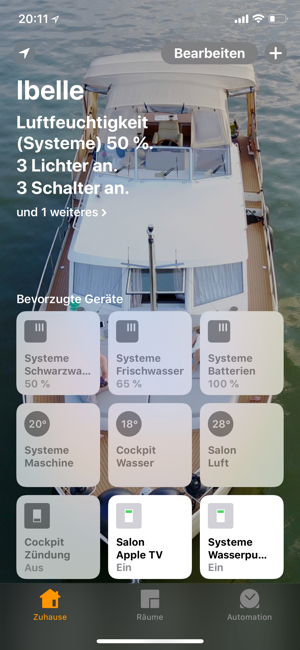
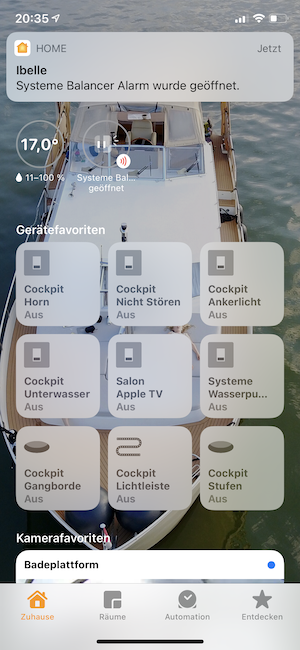
fix: display state of switches and dimmers correctly after switching on

diff --git a/index.js b/index.js
@@ -26,7 +26,7 @@ const empirBusIdentifier = 'empirBusNxt'
 const venusRelaisIdentifier = 'venus'
 const controlsPutPath = 'electrical/switches/'
 
-const switchOnValues = [ 'true', 'on', 'low power', 'passthrough', '1' ] // All Signal K values which represent a switch is "on"
+const switchOnValues = [ true, 'true', 'on', 'low power', 'passthrough', '1', 1 ] // All Signal K values which represent a switch is "on"
 
 // Victron Venus GX Chargers
 const chargersPath = 'electrical.chargers'

diff --git a/CHANGELOG.md b/CHANGELOG.md
@@ -1,5 +1,11 @@
 ## Change Log
 
+### v1.4.2 (2021/05/29 13:00)
+- fix: display state of switches and dimmers correctly after switching on
+
+### v1.4.1 (2021/05/07 22:00)
+- chore: bump lodash from 4.17.19 to 4.17.21
+
 ### v1.4.0 (2021/05/05 22:00)
 - feature: reconnect to Signal K after connection was closed
 - fix: API key /environment/inside/relativeHumidity/
